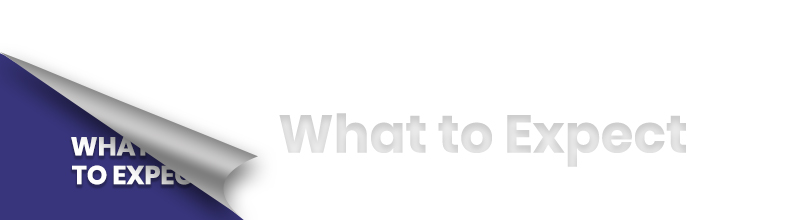
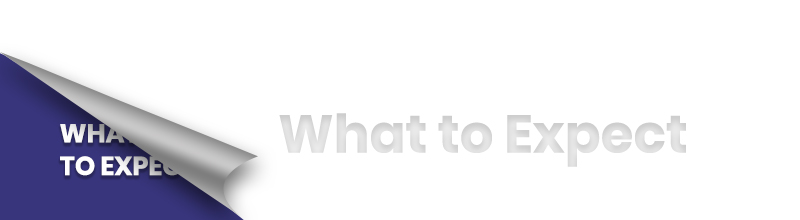
added background image for mobile to 768px

Changed region(s): [[0.0625, 0.5455, 0.25, 0.8727]]

diff --git a/css/style.css b/css/style.css
@@ -2548,7 +2548,6 @@ footer .address-privacy-sitemap ul li:last-child a .text-purple {
   display: inline-block;
   max-width: auto;
   font-size: 0.7em;
-
 }
 .you-are-here h5,
 .you-are-here ul {
@@ -3556,11 +3555,9 @@ table td:last-child {
 /************HEADER BACGROUND IMAGE**********/
 
 .section-image-container {
-  background-color: pink;
   line-height: 0;
   padding: -50px 0;
   margin: 0;
-
 }
 
 .header-bg-image {
@@ -3574,93 +3571,89 @@ table td:last-child {
   line-height: 0;
 }
 
-  @media (min-width: 600px) {
-    .header-bg-image {
-  background-size: cover;
-  margin-top: 4em;
-}
+@media (min-width: 600px) {
+  .header-bg-image {
+    background-size: cover;
+    margin-top: 4em;
   }
-
+}
 
 @media (min-width: 768px) {
   .header-bg-image {
-  margin-top: -0.5em;
-   min-height: 200px;
- }
+    margin-top: -0.5em;
+    min-height: 200px;
+  }
 }
-
 
 /**********BACKGROUND-IMAGE FOR SMALL SCREENS TO 768PX SIZED SCREEN********/
 
-  .request-appointment-img {
-    background-image: url("../img/header-bg-image/mobile/");
-  }
+.request-appointment-img {
+  background-image: url("../img/header-bg-image/mobile/request.jpg");
+}
 
-  .accepted-insurance-bg-image {
-    background-image: url("../img/header-bg-image/mobile/");
-  }
-  .award-and-accreditation-bg-image {
-    background-image: url("../img/header-bg-image/.jpg");
-  }
-  .about-us-bg-image {
-    background-image: url("../img/header-bg-image/.jpg");
-  }
-  .meet-the-team-bg-image {
-    background-image: url("../img/header-bg-image/.jpg");
-  }
-  .mission-vision-value-bg-image {
-    background-image: url("../img/header-bg-image/.jpg");
-  }
-  .patient-stories-bg-image {
-    background-image: url("../img/header-bg-image/.jpg");
-  }
-  .phone-directory-bg-image {
-    background-image: url("../img/header-bg-image/.jpg");
-  }
-  .billing-and-financial-bg-image {
-    background-image: url("../img/header-bg-image/.jpg");
-  }
-  .find-a-doctor-bg-image {
-    background-image: url("../img/header-bg-image/.jpg");
-  }
-  .medical-record-bg-image {
-    background-image: url("../img/header-bg-image/.jpg");
-  }
-  .patient-right-bg-image {
-    background-image: url("../img/header-bg-image/.jpg");
-  }
-  .pay-your-bill-bg-image {
-    background-image: url("../img/header-bg-image/.jpg");
-  }
-  .visting-hours-bg-image {
-    background-image: url("../img/header-bg-image/.jpg");
-  }
-  .visitors-bg-image {
-    background-image: url("../img/header-bg-image/.jpg");
-  }
-
-
- .what-to-expect-bg-image {
-    background-image: url("../img/header-bg-image/mobile/expect.jpg");
-  }
-
-
-
-  .visits-or-stay-bg-image {
-    background-image: url("../img/header-bg-image/.jpg");
-  }
-  .map-and-direction-bg-image {
-    background-image: url("../img/header-bg-image/.jpg");
-  }
-  .refer-a-patient-bg-image {
-    background-image: url("../img/header-bg-image/.jpg");
-  }
-  .services-bg-image {
-    background-image: url("../img/header-bg-image/.jpg");
-  }
-
-
-
+.accepted-insurance-bg-image {
+  background-image: url("../img/header-bg-image/mobile/accept.jpg");
+}
+.award-and-accreditation-bg-image {
+  background-image: url("../img/header-bg-image/mobile/award.jpg");
+}
+.about-us-bg-image {
+  background-image: url("../img/header-bg-image/mobile/about.jpg");
+}
+.meet-the-team-bg-image {
+  background-image: url("../img/header-bg-image/mobile/meet.jpg");
+}
+.mission-vision-value-bg-image {
+  background-image: url("../img/header-bg-image/mobile/mission.jpg");
+}
+.patient-stories-bg-image {
+  background-image: url("../img/header-bg-image/mobile/patient.jpg");
+}
+.phone-directory-bg-image {
+  background-image: url("../img/header-bg-image/mobile/phone.jpg");
+}
+.billing-and-financial-bg-image {
+  background-image: url("../img/header-bg-image/mobile/billing.jpg");
+}
+.find-a-doctor-bg-image {
+  background-image: url("../img/header-bg-image/mobile/find.jpg");
+}
+.medical-record-bg-image {
+  background-image: url("../img/header-bg-image/mobile/medical.jpg");
+}
+.patient-right-bg-image {
+  background-image: url("../img/header-bg-image/mobile/patient.jpg");
+}
+.pay-your-bill-bg-image {
+  background-image: url("../img/header-bg-image/mobile/pay.jpg");
+}
+.visting-hours-bg-image {
+  background-image: url("../img/header-bg-image/mobile/visiting.jpg");
+}
+.visitors-bg-image {
+  background-image: url("../img/header-bg-image/mobile/visitors.jpg");
+}
+.what-to-expect-bg-image {
+  background-image: url("../img/header-bg-image/mobile/expect.jpg");
+}
+.visits-or-stay-bg-image {
+  background-image: url("../img/header-bg-image/mobile/stay.jpg");
+}
+.map-and-direction-bg-image {
+  background-image: url("../img/header-bg-image/mobile/map.jpg");
+}
+.refer-a-patient-bg-image {
+  background-image: url("../img/header-bg-image/mobile/refer.jpg");
+}
+.services-bg-image {
+  background-image: url("../img/header-bg-image/mobile/services.jpg");
+}
+.services-bg-image {
+  background-image: url("../img/header-bg-image/mobile/services.jpg");
+}
+.contact-us-bg-image {
+  background-image: url("../img/header-bg-image/mobile/contact.jpg");
+}
 
 /*************RESPONSIVENESS FOR 992PX TO 1200PX ***************/
 
@@ -3735,15 +3728,19 @@ table td:last-child {
   .services-bg-image {
     background-image: url("../img/header-bg-image/1200px/services.jpg");
   }
+  .contact-us-bg-image {
+    background-image: url("../img/header-bg-image/1200px/contact.jpg");
+  }
 }
 
 @media (min-width: 1200px) {
   .header-bg-image {
     background-size: cover;
-     margin-top: -0.5em;
+    margin-top: -0.5em;
   }
+}
 
-  /*************RESPONSIVENESS FOR 1400PX TO LARGER SCREEN SIZES ***************/
+/*************RESPONSIVENESS FOR 1400PX TO LARGER SCREEN SIZES ***************/
 
 @media (min-width: 1400px) {
   .request-appointment-img {
